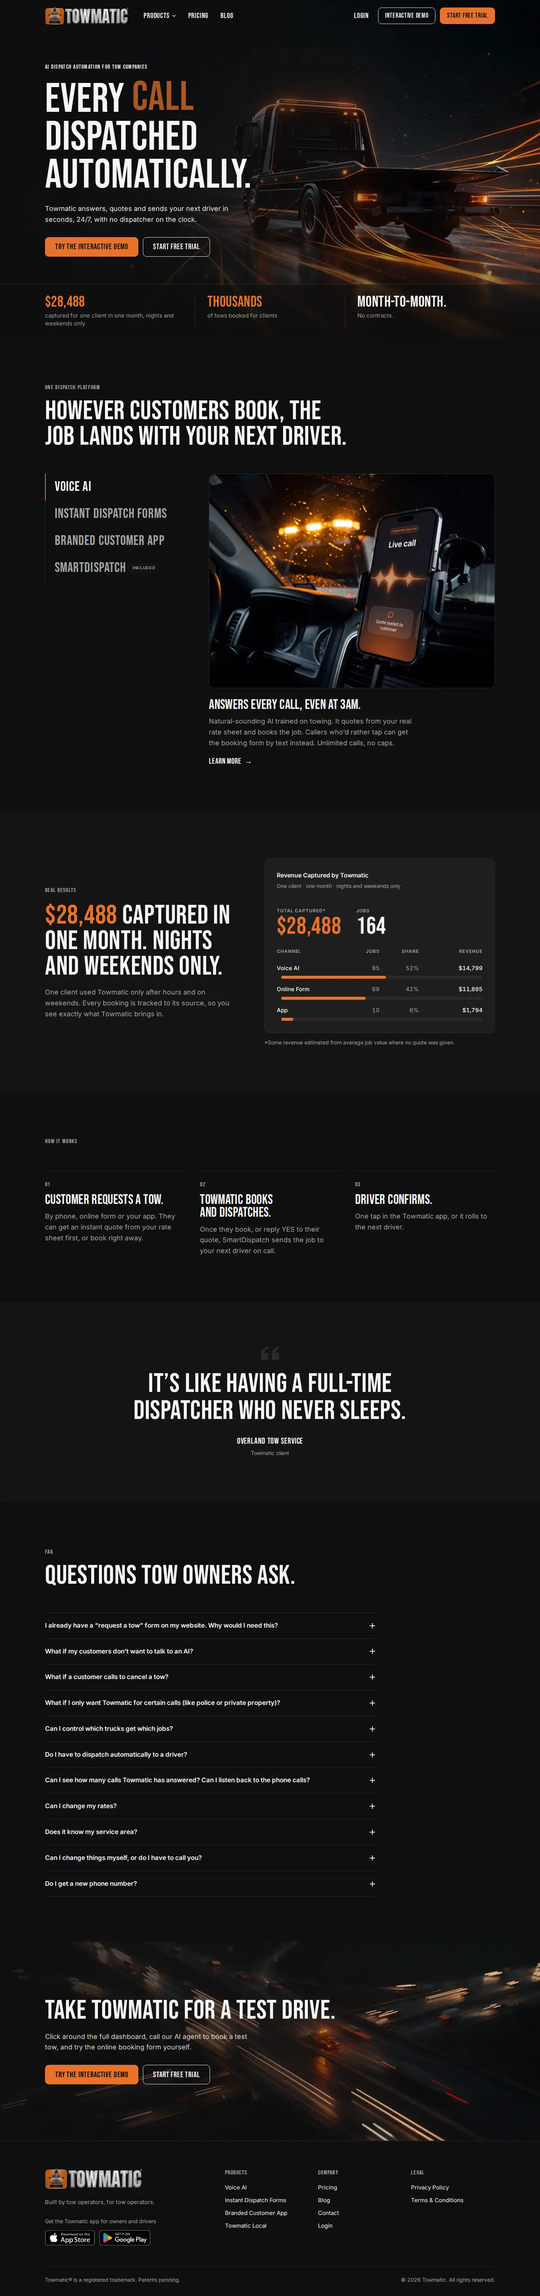
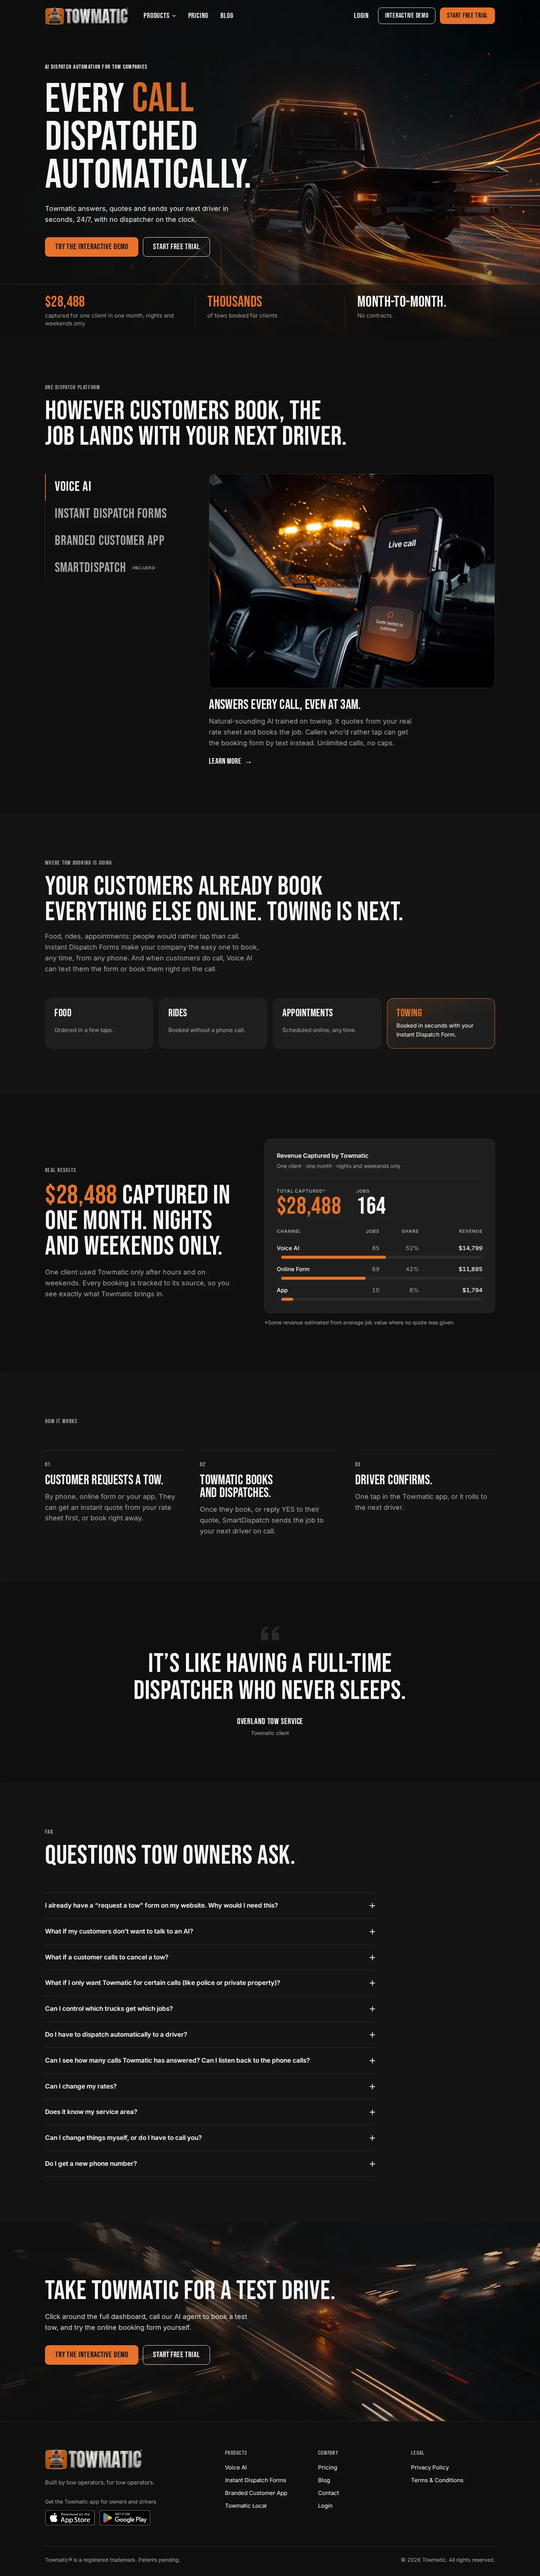
Add 'Where tow booking is going' section to both homepages
Claude-Session: https://claude.ai/code/session_01QozjXnkBDgD25Ken8NMvP1

diff --git a/website/index.html b/website/index.html
@@ -398,8 +398,25 @@
     </div>
   </section>
 
+  <!-- Where tow booking is going: online booking framed by how customers already book everything else -->
+  <section class="section section--alt" aria-labelledby="future-title">
+    <div class="container">
+      <header class="section-head reveal">
+        <p class="eyebrow">Where tow booking is going</p>
+        <h2 class="section-title" id="future-title">Your customers already book everything else online. Towing is next.</h2>
+        <p class="section-sub">Food, rides, appointments: people would rather tap than call. Instant Dispatch Forms make your company the easy one to book, any time, from any phone. And when customers do call, Voice AI can text them the form or book them right on the call.</p>
+      </header>
+      <ul class="place-grid reveal">
+        <li><b>Food</b><span>Ordered in a few taps.</span></li>
+        <li><b>Rides</b><span>Booked without a phone call.</span></li>
+        <li><b>Appointments</b><span>Scheduled online, any time.</span></li>
+        <li class="place-grid__accent"><b>Towing</b><span>Booked in seconds with your Instant Dispatch Form.</span></li>
+      </ul>
+    </div>
+  </section>
+
   <!-- 5.3 Proof: the dashboard -->
-  <section class="section section--alt" aria-labelledby="proof-title">
+  <section class="section" aria-labelledby="proof-title">
     <div class="container proof">
       <div class="proof__copy reveal">
         <p class="eyebrow">Real results</p>
@@ -438,7 +455,7 @@
   </section>
 
   <!-- 5.4 How it works -->
-  <section class="section" aria-labelledby="how-title">
+  <section class="section section--alt" aria-labelledby="how-title">
     <div class="container">
       <header class="section-head reveal">
         <p class="eyebrow">How it works</p>
@@ -466,7 +483,7 @@
 
   <!-- 5.5 Testimonial -->
   <!-- Overland Tow Service approved being quoted by name. -->
-  <section class="section section--alt" aria-label="What clients say">
+  <section class="section" aria-label="What clients say">
     <figure class="container quote reveal">
       <svg class="quote__mark" viewBox="0 0 48 36" fill="none" aria-hidden="true"><path d="M0 36V21.6C0 9.4 6.2 2.2 18.6 0l2 4.6C13.4 6.8 10 11 9.8 17H19v19H0Zm28.6 0V21.6C28.6 9.4 34.8 2.2 47.2 0l2 4.6C42 6.8 38.6 11 38.4 17h9.2v19h-19Z" fill="currentColor"/></svg>
       <blockquote class="quote__text"><p>It’s like having a full-time dispatcher who never sleeps.</p></blockquote>
@@ -475,7 +492,7 @@
   </section>
 
   <!-- FAQ (answers supplied by the owner) -->
-  <section class="section" aria-labelledby="home-faq-title">
+  <section class="section section--alt" aria-labelledby="home-faq-title">
     <div class="container">
       <header class="section-head reveal">
         <p class="eyebrow">FAQ</p>

diff --git a/website-no-voice/index.html b/website-no-voice/index.html
@@ -345,8 +345,25 @@
     </div>
   </section>
 
+  <!-- Where tow booking is going: online booking framed by how customers already book everything else -->
+  <section class="section section--alt" aria-labelledby="future-title">
+    <div class="container">
+      <header class="section-head reveal">
+        <p class="eyebrow">Where tow booking is going</p>
+        <h2 class="section-title" id="future-title">Your customers already book everything else online. Towing is next.</h2>
+        <p class="section-sub">Food, rides, appointments: people would rather tap than call. Instant Dispatch Forms make your company the easy one to book, any time, from any phone.</p>
+      </header>
+      <ul class="place-grid reveal">
+        <li><b>Food</b><span>Ordered in a few taps.</span></li>
+        <li><b>Rides</b><span>Booked without a phone call.</span></li>
+        <li><b>Appointments</b><span>Scheduled online, any time.</span></li>
+        <li class="place-grid__accent"><b>Towing</b><span>Booked in seconds with your Instant Dispatch Form.</span></li>
+      </ul>
+    </div>
+  </section>
+
   <!-- Real-world proof: QR codes on a client's truck (Midwest Tow & Recovery, used with permission; watermark cropped out) -->
-  <section class="section section--flush-top feature" aria-labelledby="qr-title">
+  <section class="section feature" aria-labelledby="qr-title">
     <div class="container feature__grid">
       <div class="feature__copy reveal">
         <p class="eyebrow">In the real world</p>

diff --git a/website-no-voice/styles.css b/website-no-voice/styles.css
@@ -1194,6 +1194,15 @@ main:focus { outline: none; }
   line-height: 1.05;
 }
 .place-grid span { color: var(--color-text-muted); font-size: 0.9375rem; }
+/* Highlighted tile (homepage "Towing is next" grid) */
+.place-grid li.place-grid__accent {
+  border-color: var(--color-accent);
+  background:
+    linear-gradient(160deg, color-mix(in srgb, var(--color-accent) 14%, transparent), transparent 60%),
+    var(--color-surface);
+}
+.place-grid li.place-grid__accent b { color: var(--color-accent); }
+.place-grid li.place-grid__accent span { color: var(--color-text); }
 
 @media (min-width: 640px) { .place-grid { grid-template-columns: repeat(2, 1fr); gap: 16px; } }
 @media (min-width: 1024px) { .place-grid { grid-template-columns: repeat(4, 1fr); } }

diff --git a/website/styles.css b/website/styles.css
@@ -1217,6 +1217,15 @@ main:focus { outline: none; }
   line-height: 1.05;
 }
 .place-grid span { color: var(--color-text-muted); font-size: 0.9375rem; }
+/* Highlighted tile (homepage "Towing is next" grid) */
+.place-grid li.place-grid__accent {
+  border-color: var(--color-accent);
+  background:
+    linear-gradient(160deg, color-mix(in srgb, var(--color-accent) 14%, transparent), transparent 60%),
+    var(--color-surface);
+}
+.place-grid li.place-grid__accent b { color: var(--color-accent); }
+.place-grid li.place-grid__accent span { color: var(--color-text); }
 
 @media (min-width: 640px) { .place-grid { grid-template-columns: repeat(2, 1fr); gap: 16px; } }
 @media (min-width: 1024px) { .place-grid { grid-template-columns: repeat(4, 1fr); } }

diff --git a/website-no-voice/HANDOFF.md b/website-no-voice/HANDOFF.md
@@ -292,6 +292,9 @@ These are intentional. Build them as shown in the prototype.
 
 - **No "live the same day" claim** for Instant Dispatch Forms anywhere (removed at the owner's request).
 - **Start Free Trial** buttons go to `/signup`.
+- **"Where tow booking is going"** homepage section right after the product tabs: "Your customers already book
+  everything else online. Towing is next." with four tiles (Food, Rides, Appointments, and Towing highlighted in
+  accent). Framed on how customers already book other services; no statistics.
 - **SmartQuote copy stays at the category level** (owner's choice, so competitors don't get a feature list): "your own
   rate sheet and the rules you set, from vehicle type and distance to the equipment the job needs and the time of
   day." Don't list specific rules (skates, dollies, mileage from the lot, etc.); the interactive demo shows them.

diff --git a/website/HANDOFF.md b/website/HANDOFF.md
@@ -286,6 +286,9 @@ These are intentional. Build them as shown in the prototype.
 
 - **No "live the same day" claim** for Instant Dispatch Forms anywhere (removed at the owner's request).
 - **Start Free Trial** buttons go to `/signup`.
+- **"Where tow booking is going"** homepage section right after the product tabs: "Your customers already book
+  everything else online. Towing is next." with four tiles (Food, Rides, Appointments, and Towing highlighted in
+  accent). Framed on how customers already book other services; no statistics.
 - **SmartQuote copy stays at the category level** (owner's choice, so competitors don't get a feature list): "your own
   rate sheet and the rules you set, from vehicle type and distance to the equipment the job needs and the time of
   day." Don't list specific rules (skates, dollies, mileage from the lot, etc.); the interactive demo shows them.
